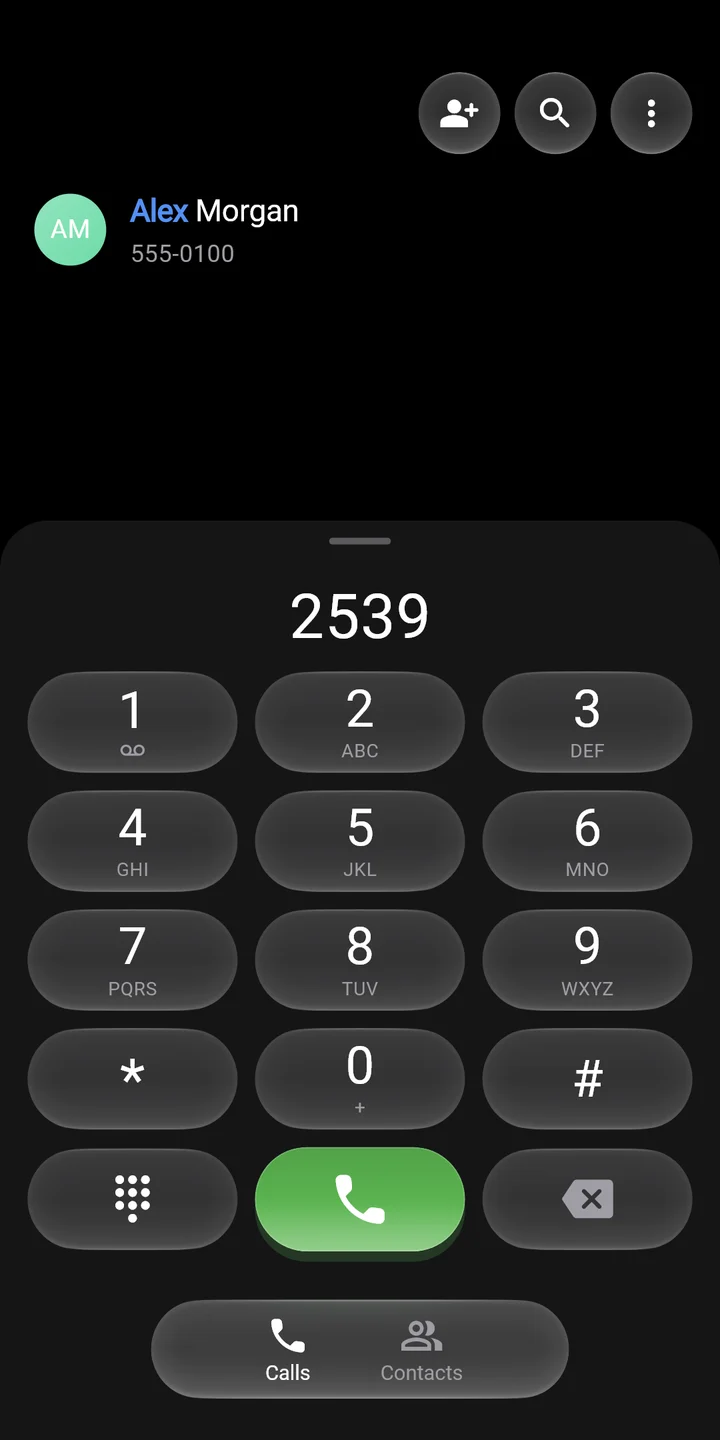
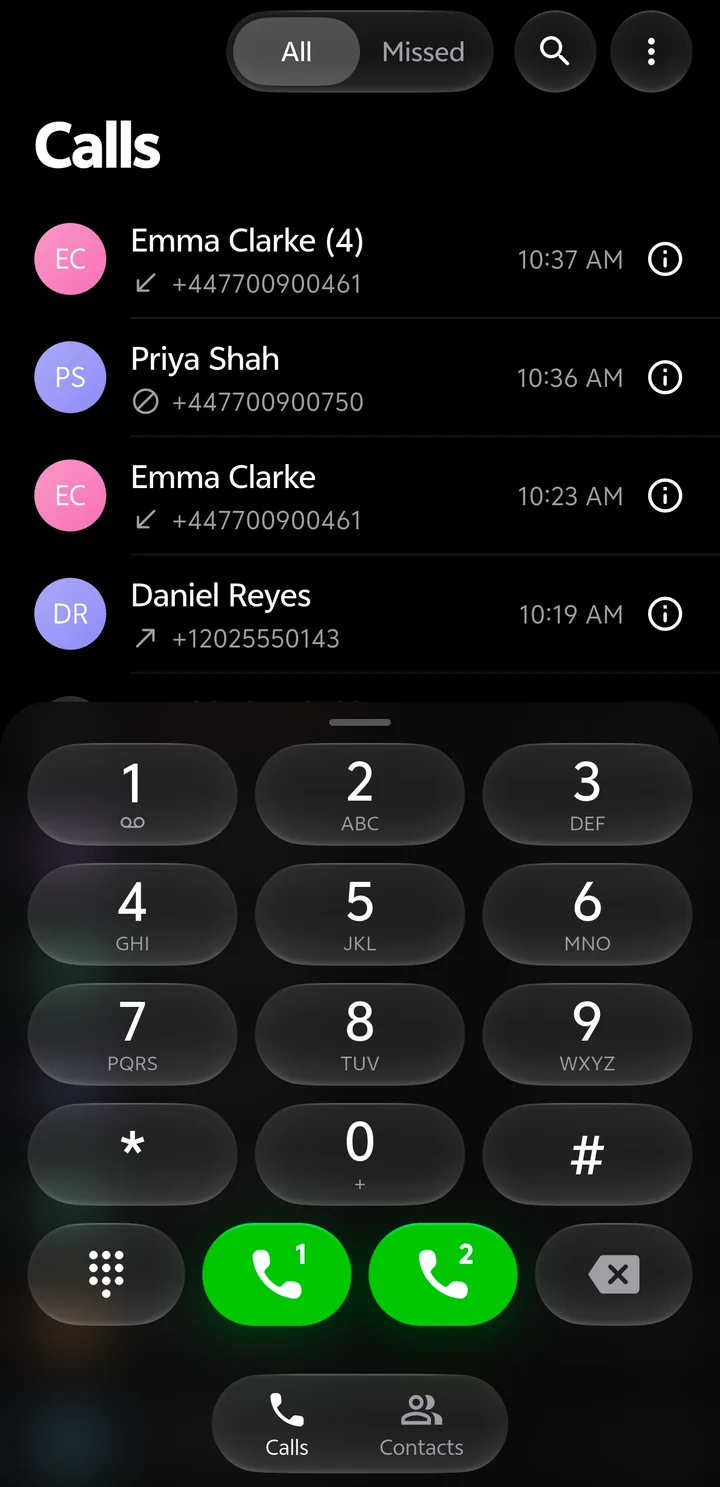
One Dialer: real phone screens, What's new, no keypad demo
Screens are now the user's own phone screenshots (made-up contacts),
synced from the dialer repo by npm run sync:dialer, which crops the
status and gesture bars. What's new reads the release changelog.json at
build time. The interactive keypad section is gone; the hero's second
button scrolls to the screens.

diff --git a/app/one-dialer/page.tsx b/app/one-dialer/page.tsx
@@ -13,8 +13,8 @@ import {
 import { SmoothScroll } from "@/components/SmoothScroll";
 import { ScreensPan } from "@/components/ScreensPan";
 import { Hero } from "./Hero";
-import { KeypadDemo } from "./KeypadDemo";
 import { Reveal } from "./Reveal";
+import { WhatsNew } from "./WhatsNew";
 import { BETA, EMAIL, GROUP_URL, PLAY_URL, TESTING_URL } from "./links";
 
 export const metadata: Metadata = {
@@ -28,13 +28,14 @@ export const metadata: Metadata = {
   },
 };
 
-// Real captures of the app (D:\dialer\docs\play, rendered by test/play_store_screenshots_test.dart).
+// Real screenshots from the phone (dialer repo tool/store_graphics/captures, synced by
+// `npm run sync:dialer`).
 const SCREENS = [
-  { src: "/one-dialer/app/1-recents.webp", title: "Calls", body: "Missed calls in red, repeat calls grouped, the keypad one tap away." },
-  { src: "/one-dialer/app/2-keypad.webp", title: "Keypad", body: "Frosted keys over your calls. Type and the right contact rises to the top." },
+  { src: "/one-dialer/app/1-calls.webp", title: "Calls", body: "Missed calls in red, repeat calls grouped, blocked ones marked. The keypad is one tap away." },
+  { src: "/one-dialer/app/2-keypad.webp", title: "Keypad", body: "Frosted keys over your calls, with a Call key for each SIM." },
   { src: "/one-dialer/app/3-contacts.webp", title: "Contacts", body: "Favourites first, then an A–Z index under your thumb." },
-  { src: "/one-dialer/app/4-incoming.webp", title: "Incoming call", body: "Full screen, tinted by the caller, right on the lock screen." },
-  { src: "/one-dialer/app/5-in-call.webp", title: "In call", body: "Big controls for speaker, mute, keypad and hold, with spring motion." },
+  { src: "/one-dialer/app/5-incoming.webp", title: "Incoming call", body: "Full screen, tinted by the caller, right on the lock screen." },
+  { src: "/one-dialer/app/6-in-call.webp", title: "In call", body: "Big glass controls for mute, hold, speaker and the dial pad." },
 ];
 
 const MORE = [
@@ -106,7 +107,7 @@ export default function OneDialer() {
   return (
     <>
       <SmoothScroll />
-      {/* One fixed aurora for the page, in the call screen's violet and the keypad's green. */}
+      {/* One fixed aurora for the page, in the call screen's violet and the Call button's green. */}
       <div aria-hidden className="pointer-events-none fixed inset-0 -z-10 overflow-hidden">
         <div className="absolute -top-[30vmax] -right-[20vmax] h-[70vmax] w-[70vmax] rounded-full bg-[#6e3cd2] opacity-[0.13] blur-[100px]" />
         <div className="absolute -bottom-[35vmax] -left-[25vmax] h-[70vmax] w-[70vmax] rounded-full bg-[#00c05a] opacity-[0.08] blur-[100px]" />
@@ -128,24 +129,6 @@ export default function OneDialer() {
       <main>
         <Hero />
 
-        {/* Keypad */}
-        <section id="keypad" className={`${section} grid scroll-mt-16 grid-cols-1 items-center gap-16 lg:grid-cols-12`}>
-          <Reveal className="lg:col-span-6">
-            <h2 className={h2}>
-              Type a name.
-              <br />
-              <span className="text-ink-2">With numbers.</span>
-            </h2>
-            <p className="mt-7 max-w-[36ch] text-[18px] leading-relaxed text-ink-2">
-              Smart T9 finds people by any part of their name or number as you type. Try it: 2 5 finds Alex and Alicia, 6 6 2 4 finds Noah.
-            </p>
-            <p className="mt-5 text-[15px] text-ink-3">Works with your keyboard too.</p>
-          </Reveal>
-          <Reveal delay={0.1} className="lg:col-span-6">
-            <KeypadDemo />
-          </Reveal>
-        </section>
-
         <ScreensPan
           screens={SCREENS}
           app="One Dialer"
@@ -156,8 +139,10 @@ export default function OneDialer() {
               <span className="text-ink-2">on true black.</span>
             </>
           }
-          intro="Real screens from the app. Frosted glass, soft glow and spring motion, from the keypad to the call screen."
+          intro="Real screens from the app. Frosted glass, soft glow and spring motion, from your calls to the call screen."
         />
+
+        <WhatsNew />
 
         {/* More */}
         <section className={section}>

diff --git a/app/one-dialer/WhatsNew.tsx b/app/one-dialer/WhatsNew.tsx
@@ -1,0 +1,44 @@
+import { readFile } from "node:fs/promises";
+import path from "node:path";
+import { Reveal } from "./Reveal";
+
+type Release = { version: string; date: string; changes: string[] };
+
+// Read at build time from the file the dialer's tool/release.ps1 writes every release, so this
+// section updates itself (the app's Software update reads the same file).
+async function latest(): Promise<Release> {
+  const json = await readFile(path.join(process.cwd(), "public", "one-dialer", "changelog.json"), "utf8");
+  return JSON.parse(json);
+}
+
+/** "1.0.0-beta.6" → "Beta 6", "1.2.0" → "Version 1.2". */
+function label(version: string) {
+  const beta = /-beta\.(\d+)$/.exec(version);
+  return beta ? `Beta ${beta[1]}` : `Version ${version.split(".").slice(0, 2).join(".")}`;
+}
+
+export async function WhatsNew() {
+  const r = await latest();
+  return (
+    <section id="whats-new" className="mx-auto grid max-w-[1400px] grid-cols-1 gap-12 px-4 py-28 sm:px-8 md:py-36 lg:grid-cols-12">
+      <Reveal className="lg:col-span-4">
+        <h2 className="text-[clamp(2.5rem,5.6vw,5.25rem)] leading-[0.98] font-bold tracking-[-0.05em]">
+          What&apos;s <span className="text-ink-2">new.</span>
+        </h2>
+        <p className="mt-6 text-[17px] text-ink-2">
+          {label(r.version)} · {r.date}
+        </p>
+      </Reveal>
+      <Reveal className="overflow-hidden rounded-[var(--radius-card)] bg-card lg:col-span-8">
+        <ul>
+          {r.changes.map((c, i) => (
+            <li key={c} className={`flex gap-4 px-6 py-5 text-[16.5px] leading-relaxed text-ink-2 sm:px-8 ${i ? "border-t border-white/[0.06]" : ""}`}>
+              <span className="mt-[0.6em] h-1.5 w-1.5 shrink-0 rounded-full bg-green" />
+              <span>{c}</span>
+            </li>
+          ))}
+        </ul>
+      </Reveal>
+    </section>
+  );
+}

diff --git a/app/one-dialer/Hero.tsx b/app/one-dialer/Hero.tsx
@@ -87,8 +87,8 @@ export function Hero() {
                 </>
               )}
             </a>
-            <a href="#keypad" className="inline-flex h-14 items-center rounded-[var(--radius-pill)] px-6 text-[16px] font-semibold transition-colors hover:bg-white/[0.06]">
-              Try the keypad
+            <a href="#screens" className="inline-flex h-14 items-center rounded-[var(--radius-pill)] px-6 text-[16px] font-semibold transition-colors hover:bg-white/[0.06]">
+              See the app
             </a>
           </motion.div>
           <motion.p
@@ -112,7 +112,7 @@ export function Hero() {
               transition={{ delay: 0.15, duration: 1.1, ease: settle }}
               className="mx-auto w-[min(72vw,340px)] md:mr-0 md:ml-auto lg:mr-[8%]"
             >
-              <PhoneFrame src="/one-dialer/app/4-incoming.webp" alt="One Dialer's incoming call screen" priority className="shadow-[0_50px_140px_-30px_rgb(110_60_210/0.55),0_0_0_1px_rgb(255_255_255/0.07)]" />
+              <PhoneFrame src="/one-dialer/app/5-incoming.webp" alt="One Dialer's incoming call screen" priority className="shadow-[0_50px_140px_-30px_rgb(110_60_210/0.55),0_0_0_1px_rgb(255_255_255/0.07)]" />
             </motion.div>
           </motion.div>
         </div>

diff --git a/components/ScreensPan.tsx b/components/ScreensPan.tsx
@@ -75,7 +75,7 @@ export function ScreensPan({
   }, []);
 
   return (
-    <section ref={wrap} className="relative overflow-hidden" aria-label="Screens from the app">
+    <section id="screens" ref={wrap} className="relative overflow-hidden" aria-label="Screens from the app">
       <div
         ref={track}
         className="no-scrollbar flex items-center gap-[clamp(1.5rem,4vw,4.5rem)] px-4 py-24 max-md:snap-x max-md:snap-mandatory max-md:overflow-x-auto sm:px-8 md:h-[100dvh] md:w-max md:py-0 md:pr-[12vw]"
